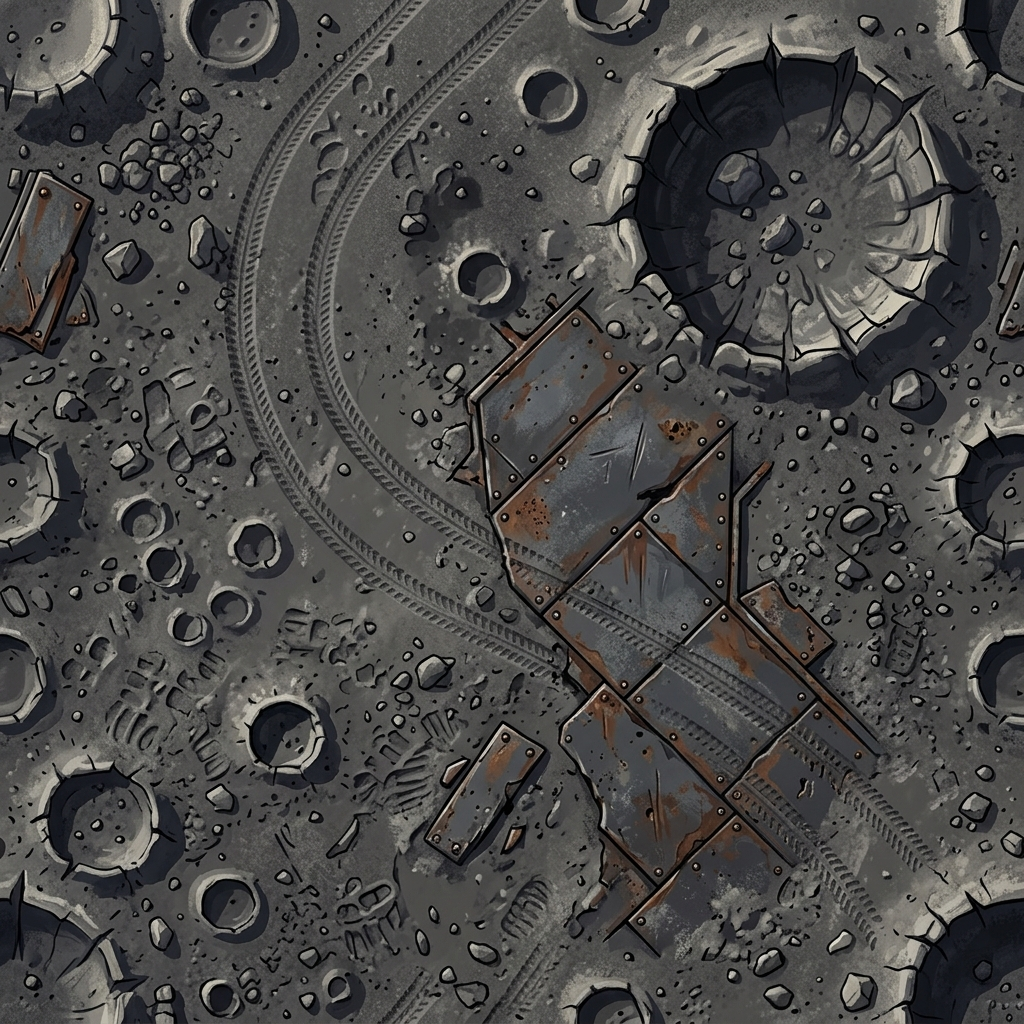
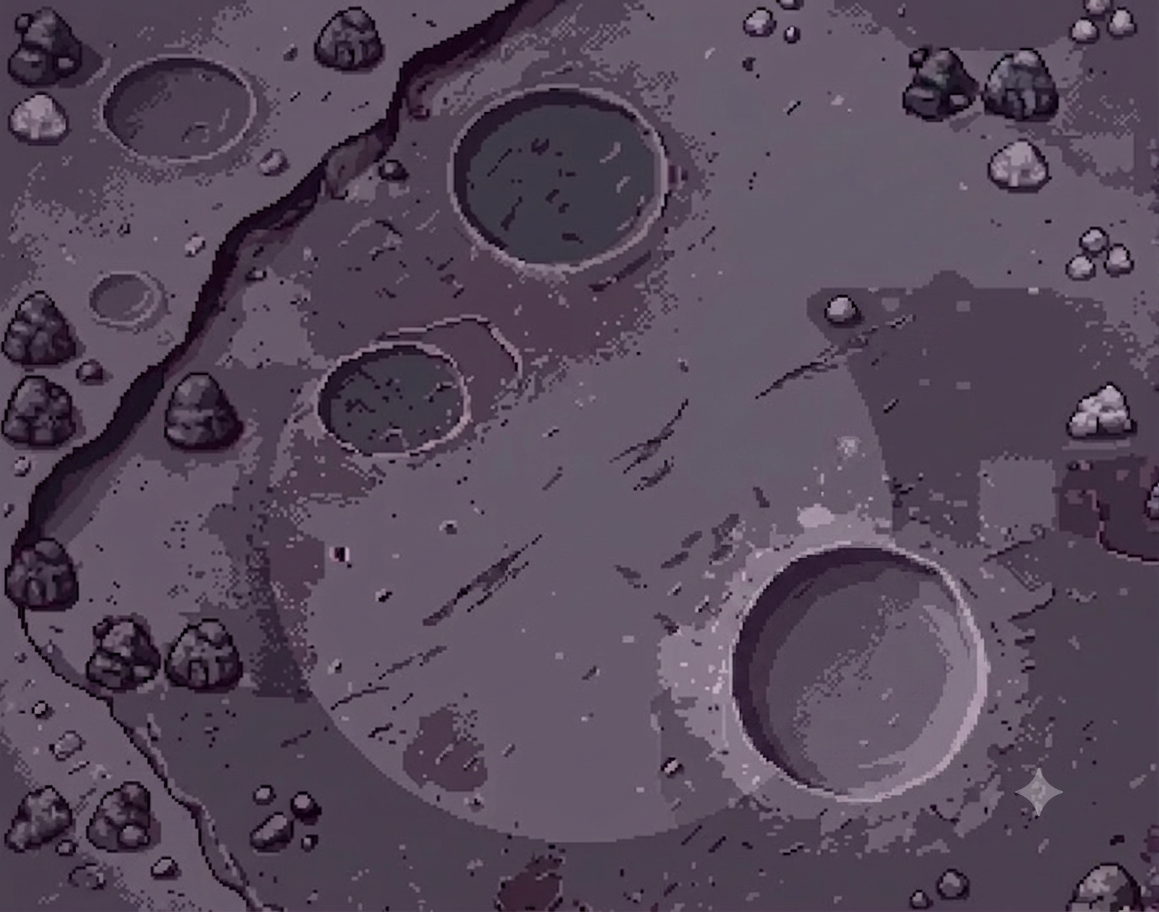
pulling changes

diff --git a/game.py b/game.py
@@ -39,7 +39,7 @@ STATE_GAMEOVER = "gameover"
 STATE_TRANSITION = "transition"
 
 
-DEBUG_START_STATE = STATE_LEVEL3
+DEBUG_START_STATE = STATE_LEVEL1
 
 
 

diff --git a/tempCodeRunnerFile.py b/tempCodeRunnerFile.py
@@ -1,0 +1,2 @@
+
+STATE_TRANSITION = "transition"